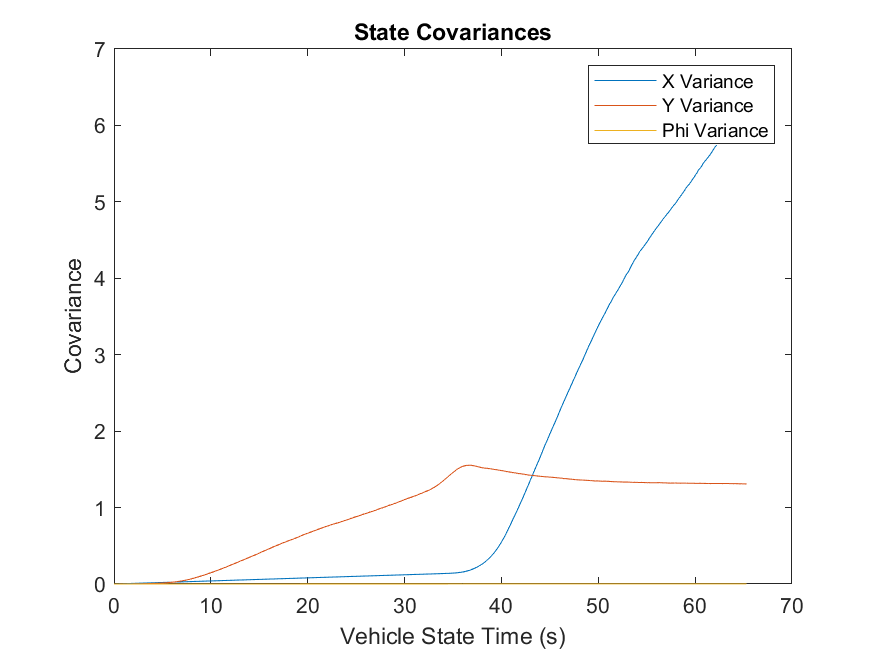
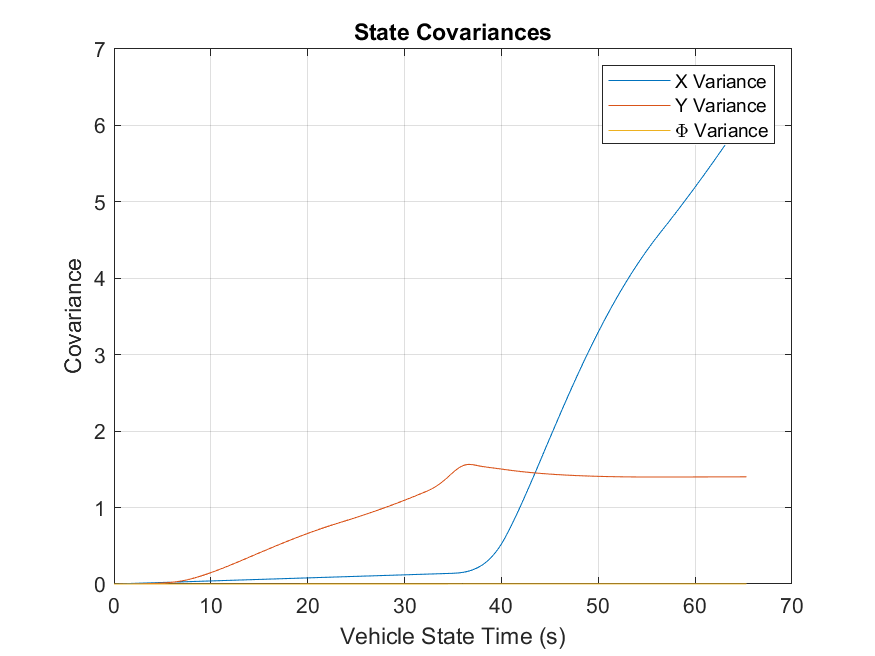
more figures and additional code for q3a

diff --git a/Code/+drivebot/DriveBotSLAMSystem.m b/Code/+drivebot/DriveBotSLAMSystem.m
@@ -46,7 +46,10 @@ classdef DriveBotSLAMSystem < minislam.slam.SLAMSystem
         % question Q3a
         removePredictionEdgesFromGraph;
         keepFirstPredictionEdge;
-        
+
+        % History for visualizing odometry data
+        odoHistory;
+        odoTime;
     end
     
     methods(Access = public)
@@ -75,6 +78,15 @@ classdef DriveBotSLAMSystem < minislam.slam.SLAMSystem
             
             this.removePredictionEdgesFromGraph = false;
             this.keepFirstPredictionEdge = false;
+
+            this.odoHistory = [];
+            this.odoTime = [];
+        end
+
+        function [odoHistory,odoTime] = getOdoHistory(this)
+            % Get Odometry data history
+            odoHistory = this.odoHistory;
+            odoTime = this.odoTime;
         end
         
         % Destroy the graph when we destroy the SLAM system.
@@ -250,6 +262,8 @@ classdef DriveBotSLAMSystem < minislam.slam.SLAMSystem
             % Q1b:
             % Implement prediction code here
             odometry=this.u;
+            this.odoHistory = [this.odoHistory;odometry'];
+            this.odoTime = [this.odoTime,time];
             Q = this.uCov;
             omegaQ = inv(Q);
 
@@ -310,7 +324,7 @@ classdef DriveBotSLAMSystem < minislam.slam.SLAMSystem
         end
         
         function handleLandmarkObservationEvent(this, event)
-            
+
             % Iterate over all the landmark measurements
             for l = 1 : length(event.landmarkIds)
                 
@@ -324,7 +338,6 @@ classdef DriveBotSLAMSystem < minislam.slam.SLAMSystem
                 % Complete the implementation
                 % warning('drivebotslamsystem:handlelandmarkobservationevent:unimplemented', ...
                 %     'Implement the rest of this method for Q2b.');
-                % disp(landmarkVertex.estimate())
 
                 % Construct LandmarkRangeBearing Edge
                 landmarkRangeBearingEdge = drivebot.graph.LandmarkRangeBearingEdge();
@@ -359,10 +372,18 @@ classdef DriveBotSLAMSystem < minislam.slam.SLAMSystem
             end
 
             % Iterate through stored process model edges and remove the
-            % edges, start decided by the type of removal
+            % edges
             for v = start : this.numProcessModelEdges
                     this.graph.removeEdge(this.processModelEdges{v});
             end
+
+            this.numProcessModelEdges = start - 1;
+
+            % % Code Verification that the issue arises when the initial state
+            % % vertex isn't connect to rest of the graph
+            % if this.numProcessModelEdges > 0
+            %     this.graph.removeEdge(this.processModelEdges{1});
+            % end
         end
         
         

diff --git a/Code/q3_a.m b/Code/q3_a.m
@@ -16,6 +16,8 @@ configuration.perturbWithNoise = true;
 % Magic tuning for the no-prediction case
 configuration.laserDetectionRange = 30;
 
+% configuration.maximumStepNumber = 2;
+
 % Set up the simulator
 simulator = drivebot.DriveBotSimulator(configuration, 'q3_a');
 
@@ -28,7 +30,8 @@ drivebotSLAMSystem = drivebot.DriveBotSLAMSystem(configuration);
 drivebotSLAMSystem.setValidateGraph(false);
 
 % Optimize every 500 timesteps to get a picture of the situation as it evolves
-drivebotSLAMSystem.setRecommendOptimizationPeriod(500);
+% drivebotSLAMSystem.setRecommendOptimizationPeriod(500);
+drivebotSLAMSystem.setRecommendOptimizationPeriod(1);
 
 % Set whether the SLAM system should remove prediction edges. If the first
 % value is true, the SLAM system should remove the edges. If the second is
@@ -42,26 +45,5 @@ results = minislam.mainLoop(simulator, drivebotSLAMSystem);
 % Minimal output plots. For your answers, please provide titles and label
 % the axes.
 
-% Plot optimisation times
-minislam.graphics.FigureManager.getFigure('Optimization times');
-clf
-plot(results{1}.optimizationTimes, '*')
-hold on
-
-% Plot the error curves
-minislam.graphics.FigureManager.getFigure('Errors');
-clf
-plot(results{1}.vehicleStateHistory'-results{1}.vehicleStateHistory')
-
-% Plot covariance
-minislam.graphics.FigureManager.getFigure('Vehicle Covariances');
-clf
-plot(results{1}.vehicleCovarianceHistory')
-hold on
-
-% Plot errors
-minislam.graphics.FigureManager.getFigure('Errors');
-clf
-plot(results{1}.vehicleStateHistory'-results{1}.vehicleTrueStateHistory')
-hold on
+% plotter(["OptTime","Chi2","Covariance"],"Figures/q3a_no_opt",results)
 

diff --git a/Code/plotter.m b/Code/plotter.m
@@ -8,6 +8,7 @@ plot(results{:}.vehicleStateTime, results{:}.optimizationTimes', '*')
 ylabel("Optimization Time (s)")
 xlabel("Vehicle State Time (s)")
 title("Optimization times")
+grid on
 saveas(gcf, plot_heading+'_opt_time', 'png');
 hold on
 end
@@ -18,8 +19,9 @@ clf
 plot(results{:}.vehicleStateTime, results{:}.vehicleStateHistory'-results{:}.vehicleTrueStateHistory')
 xlabel("Vehicle State Time (s)")
 ylabel("Error")
-legend("X Error","Y Error","Phi Error")
+legend("X Error","Y Error","\Phi Error")
 title("State Error")
+grid on
 saveas(gcf, plot_heading+'_error', 'png');
 hold on
 end
@@ -31,8 +33,9 @@ clf
 plot(results{:}.vehicleStateTime, results{:}.vehicleCovarianceHistory')
 ylabel("Covariance")
 xlabel("Vehicle State Time (s)")
-legend("X Variance","Y Variance","Phi Variance")
+legend("X Variance","Y Variance","\Phi Variance")
 title("State Covariances")
+grid on
 saveas(gcf, plot_heading+'_covariance', 'png');
 hold on
 end
@@ -45,6 +48,7 @@ plot(results{:}.chi2Time, results{:}.chi2History')
 ylabel("Chi Squared")
 xlabel("Vehicle State Time (s)")
 title("Vehicle Chi Squared")
+grid on
 saveas(gcf, plot_heading+'_chi2', 'png');
 hold on
 end

diff --git a/Code/q1_e.m b/Code/q1_e.m
@@ -7,7 +7,7 @@ configuration = drivebot.SimulatorConfiguration();
 configuration.enableGPS = true;
 
 % Set to true for part ii
-configuration.enableCompass = false;
+configuration.enableCompass = true;
 
 % Set up the simulator
 simulator = drivebot.DriveBotSimulator(configuration, 'q1_e');
@@ -18,7 +18,7 @@ drivebotSLAMSystem = drivebot.DriveBotSLAMSystem(configuration);
 % Q1(e)i:
 % Use the method "setRecommendOptimizationPeriod" in DriveBotSLAMSystem
 % to control the rate at which the optimizer runs
-drivebotSLAMSystem.setRecommendOptimizationPeriod(10);
+drivebotSLAMSystem.setRecommendOptimizationPeriod(1);
 
 % This tells the SLAM system to do a very detailed check that the input
 % appears to be correct but can make the code run slowly. Once you are
@@ -32,7 +32,7 @@ results = minislam.mainLoop(simulator, drivebotSLAMSystem);
 % the axes.
 
 if configuration.enableCompass
-    plot_heading = 'Figures/q1e_gps_and_compass';
+    plot_heading = "Figures/q1e_gps_and_compass";
 else
     plot_heading = "Figures/q1e_gps_only";
 end

diff --git a/Code/q1_c.m b/Code/q1_c.m
@@ -30,7 +30,7 @@ drivebotSLAMSystem.setRecommendOptimizationPeriod(20);
 % This tells the SLAM system to do a very detailed check that the input
 % appears to be correct but can make the code run slowly. Once you are
 % confident your code is working safely, you can set this to false.
-drivebotSLAMSystem.setValidateGraph(true);
+drivebotSLAMSystem.setValidateGraph(false);
 
 % Run the main loop and correct results
 results = minislam.mainLoop(simulator, drivebotSLAMSystem);
@@ -38,5 +38,6 @@ results = minislam.mainLoop(simulator, drivebotSLAMSystem);
 % Minimal output plots. For your answers, please provide titles and label
 % the axes.
 
-plotter([],"Figures/q1c_compass_fault",results)
+% plotter([],"Figures/q1c_compass_fault",results)
+plotter([],"Figures/q1c_compass_fixed",results)
 

diff --git a/Code/+drivebot/+graph/VehicleKinematicsEdge.m b/Code/+drivebot/+graph/VehicleKinematicsEdge.m
@@ -30,7 +30,6 @@ classdef VehicleKinematicsEdge < g2o.core.BaseBinaryEdge
         end
        
         function initialize(this)
-            
                         
             priorX = this.edgeVertices{1}.x;
 
@@ -38,8 +37,8 @@ classdef VehicleKinematicsEdge < g2o.core.BaseBinaryEdge
             s = sin(priorX(3));
             
             M = this.dT * [c -s 0;
-                s c 0;
-                0 0 1];
+                           s c 0;
+                           0 0 1];
             
             % Compute the posterior assming no noise
             this.edgeVertices{2}.x = this.edgeVertices{1}.x + M * this.z;

diff --git a/Code/q1_d.m b/Code/q1_d.m
@@ -10,7 +10,7 @@ configuration.enableGPS = true;
 % with no noise in them. You might find this useful for debugging.
 % However, unless specified otherwise, any submitted results for any questions or subparts of questions
 % must have this value set to true.
-configuration.perturbWithNoise = true;
+configuration.perturbWithNoise = false;
 
 % Set up the simulator
 simulator = drivebot.DriveBotSimulator(configuration, 'q1_d');

diff --git a/Code/Libraries/+minislam/+graphics/GraphicalOutput.m b/Code/Libraries/+minislam/+graphics/GraphicalOutput.m
@@ -179,6 +179,7 @@ classdef GraphicalOutput < handle
                 [x, P] = this.localizationSystems{l}.platformEstimate();
                 set(this.xEst{l}, 'XData', x(1), 'YData', x(2));
                 covPts = this.getCovarianceEllipsePoints([x(1);x(2)], P, 3);
+                % disp(P)
                 set(this.PEst{l}, 'XData', covPts(1, :), 'YData', covPts(2, :));
 
                 % Now update the landmarks

diff --git a/Code/q1_b.m b/Code/q1_b.m
@@ -10,7 +10,7 @@ configuration = drivebot.SimulatorConfiguration();
 % with no noise in them. You might find this useful for debugging.
 % However, unless specified otherwise, any submitted results must have this
 % value set to true.
-configuration.perturbWithNoise = true;
+configuration.perturbWithNoise = false;
 
 % Set up the simulator
 simulator = drivebot.DriveBotSimulator(configuration, 'q1_b');
